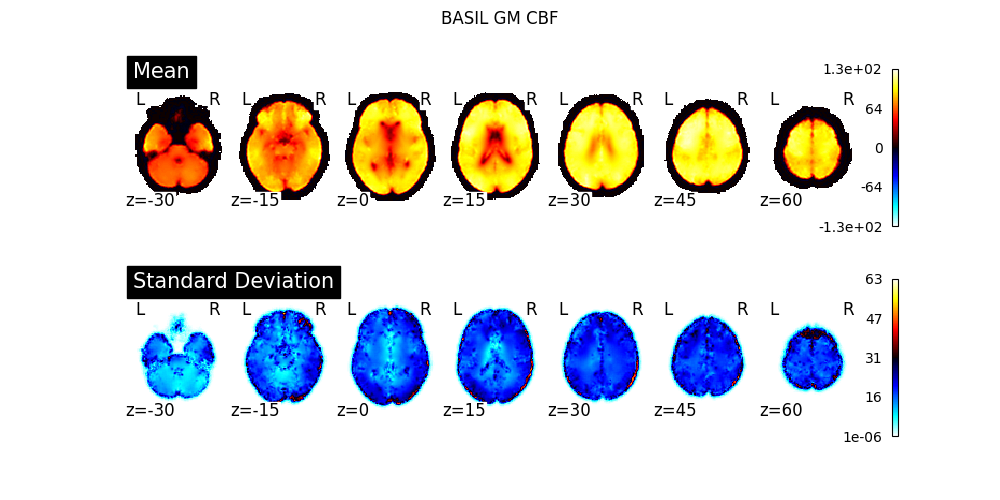
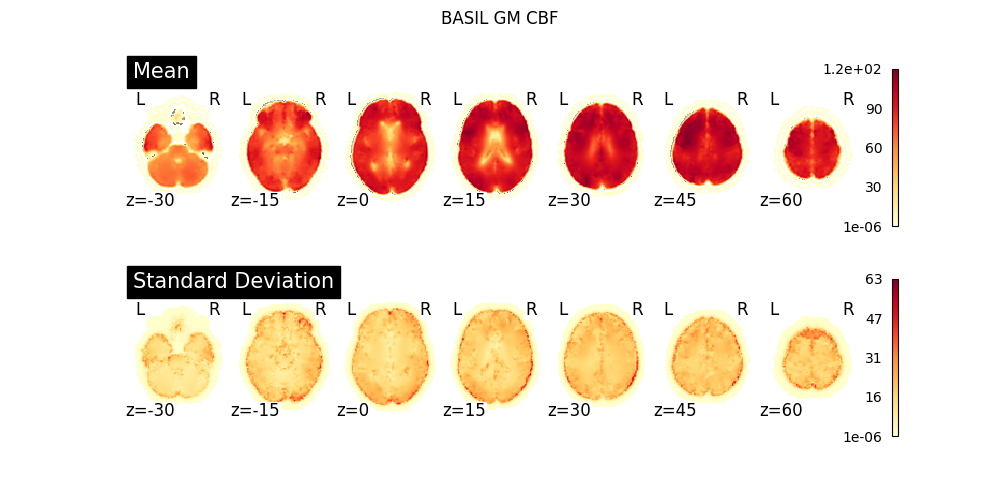
Plot T2*.

Changed region(s): [[0.124, 0.15, 0.899, 0.48], [0.124, 0.57, 0.899, 0.87]]

diff --git a/analysis/plot_tedana_t2star.py b/analysis/plot_tedana_t2star.py
@@ -19,9 +19,10 @@ if __name__ == "__main__":
         scalar_maps = sorted(glob(os.path.join(in_dir, pattern)))
         scalar_maps = [f for f in scalar_maps if "PILOT" not in f]
         print(f"{title}: {len(scalar_maps)}")
+        scalar_imgs = [image.math_img("img * 1000", img=img) for img in scalar_maps]
 
-        mean_img = image.mean_img(scalar_maps, copy_header=True)
-        sd_img = image.math_img("np.std(img, axis=3)", img=scalar_maps)
+        mean_img = image.mean_img(scalar_imgs, copy_header=True)
+        sd_img = image.math_img("np.std(img, axis=3)", img=scalar_imgs)
 
         # Plot mean and SD
         fig, axs = plt.subplots(2, 1, figsize=(10, 5))
@@ -32,6 +33,10 @@ if __name__ == "__main__":
             title="Mean",
             axes=axs[0],
             figure=fig,
+            symmetric_cbar=False,
+            vmin=0,
+            vmax=150,
+            cmap="YlOrRd",
         )
         plotting.plot_stat_map(
             sd_img,
@@ -40,6 +45,9 @@ if __name__ == "__main__":
             title="Standard Deviation",
             axes=axs[1],
             figure=fig,
+            symmetric_cbar=False,
+            vmin=0,
+            cmap="YlOrRd",
         )
         fig.suptitle(title)
         plt.savefig(os.path.join(out_dir, f"{title.replace(' ', '_')}.png"))

diff --git a/analysis/plot_aslprep_cbf.py b/analysis/plot_aslprep_cbf.py
@@ -36,6 +36,10 @@ if __name__ == "__main__":
             title="Mean",
             axes=axs[0],
             figure=fig,
+            symmetric_cbar=False,
+            vmin=0,
+            vmax=120,
+            cmap="YlOrRd",
         )
         plotting.plot_stat_map(
             sd_img,
@@ -44,6 +48,9 @@ if __name__ == "__main__":
             title="Standard Deviation",
             axes=axs[1],
             figure=fig,
+            symmetric_cbar=False,
+            vmin=0,
+            cmap="YlOrRd",
         )
         fig.suptitle(title)
         plt.savefig(os.path.join(out_dir, f"{title.replace(' ', '_')}.png"))
